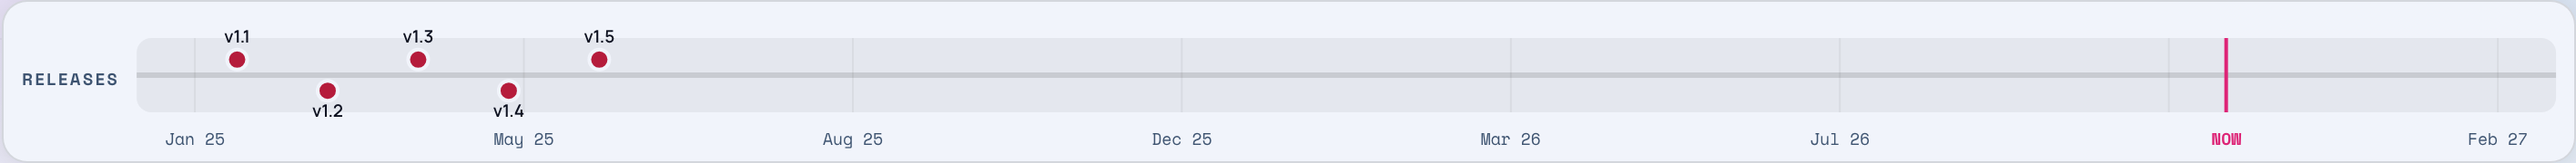
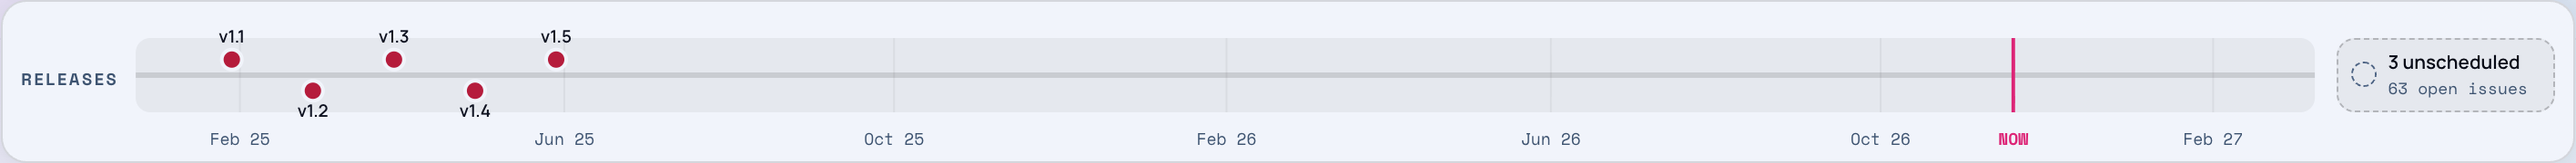
docs: show unscheduled milestones and the count/percent switch on the homepage
Refresh the hero and release rail screenshots, add an Unscheduled
milestones card, and describe the #/% switch in the Analytics section.

diff --git a/docs/index.html b/docs/index.html
@@ -1334,7 +1334,7 @@
             <figcaption><b>localhost:8501</b><span>Overview &middot; Charts ON</span><span class="state">local &middot; your data</span></figcaption>
             <img class="theme-image" src="images/screenshots/hp_analytics_dark.png"
           data-dark="images/screenshots/hp_analytics_dark.png" data-light="images/screenshots/hp_analytics.png"
-          width="2880" height="1800" alt="GitLab Pulse Overview cockpit with unified scope bar, release timeline, Open Mix, Workflow State, velocity, quality signals, and issue table" />
+          width="2880" height="1800" alt="GitLab Pulse Overview cockpit with unified scope bar, release timeline with unscheduled milestone tray, Open Mix, Workflow State, velocity, quality signals, unscheduled milestones, and issue table" />
           </figure>
         </div>
 
@@ -1433,7 +1433,7 @@
       <div class="split reveal">
         <h2>Charts that filter the board.</h2>
         <div class="split-side">
-          <p>Click any slice, legend item, workflow segment, velocity point, or quality hint: the issue table updates in place inside your browser and sibling elements dim. Click it again—or dismiss its chip—to clear the filter.</p>
+          <p>Click any slice, legend item, workflow segment, velocity point, or quality hint: the issue table updates in place inside your browser and sibling elements dim. Click it again—or dismiss its chip—to clear the filter. The <span class="mono">#</span>&nbsp;/&nbsp;<span class="mono">%</span> switch in the top bar shows chart numbers as counts or as shares, for example each priority's share of a workflow stage. Tooltips always show both.</p>
         </div>
       </div>
       <figure class="window wide-shot reveal">
@@ -1447,12 +1447,13 @@
         <div class="pad">
           <h3>Releases on one rail</h3>
           <p>Milestones are coloured by health (overdue, on track, complete) around a line for today. Click one to
-            filter the dashboard by that milestone.</p>
+            filter the dashboard by that milestone. Milestones without a due date stay off the date scale; a tray at
+            the end of the rail counts them and opens the unscheduled milestones panel.</p>
         </div>
         <div class="panel-shot">
           <img class="theme-image" loading="lazy" src="images/screenshots/hp_timeline_dark.png"
           data-dark="images/screenshots/hp_timeline_dark.png" data-light="images/screenshots/hp_timeline.png"
-          width="2830" height="180" alt="The release timeline with milestones v1.1 to v1.5 around the NOW line" />
+          width="2830" height="180" alt="The release timeline with milestones v1.1 to v1.5 around the NOW line and a tray counting 3 unscheduled milestones" />
         </div>
       </article>
 
@@ -1479,7 +1480,18 @@
           width="756" height="158" alt="Issue quality signals showing open hint counts" />
           </div>
         </article>
-        <article class="card span-2 reveal" style="--i: 2">
+        <article class="card reveal" style="--i: 2">
+          <div class="pad">
+            <h3>Unscheduled milestones</h3>
+            <p>Milestones without a due date that still have open issues, split by priority or type. Click one to filter by it.</p>
+          </div>
+          <div class="panel-shot">
+            <img class="theme-image" loading="lazy" style="width: 378px" src="images/screenshots/hp_unscheduled_dark.png"
+          data-dark="images/screenshots/hp_unscheduled_dark.png" data-light="images/screenshots/hp_unscheduled.png"
+          width="756" height="321" alt="Open issues per milestone without a due date, stacked by priority, with a note on one hidden milestone whose issues are all closed" />
+          </div>
+        </article>
+        <article class="card reveal" style="--i: 3">
           <div class="pad">
             <h3>New versus closed, per day</h3>
             <p>A 7-day flow window anchored to recent or historical activity. Click a point to inspect created or closed issues.</p>
